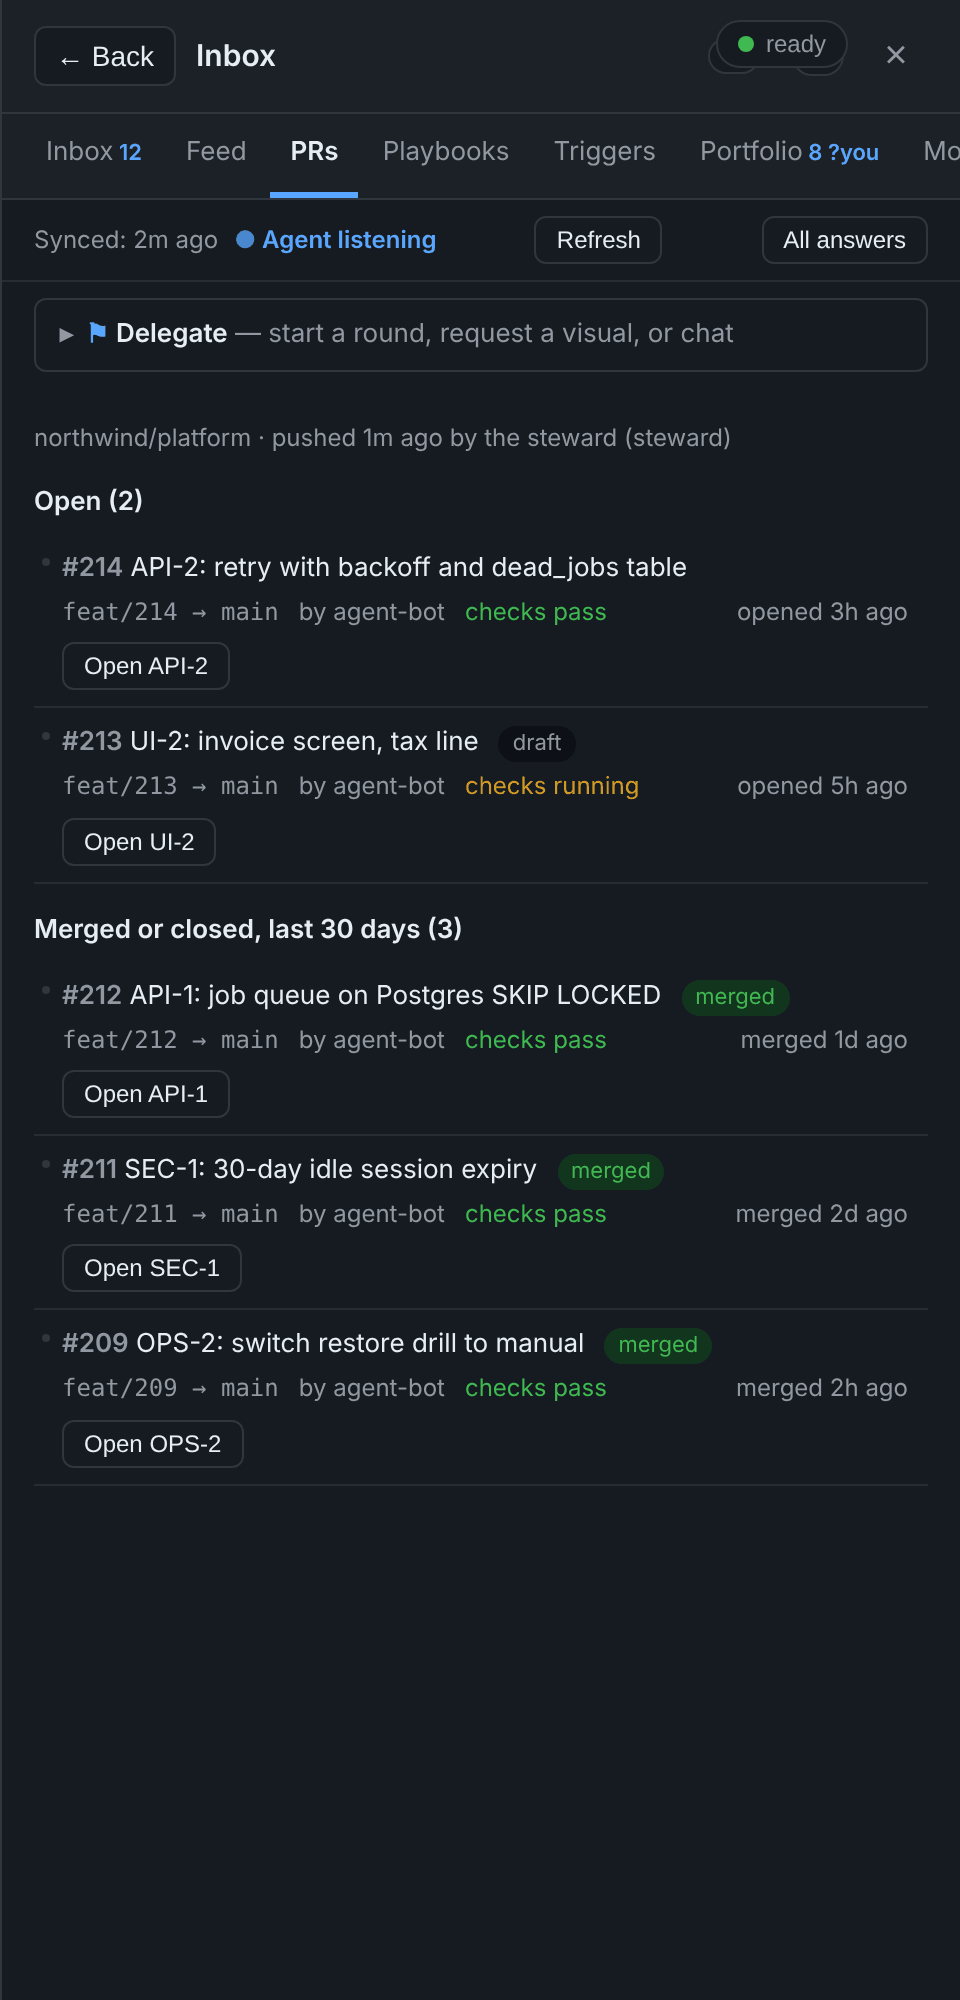
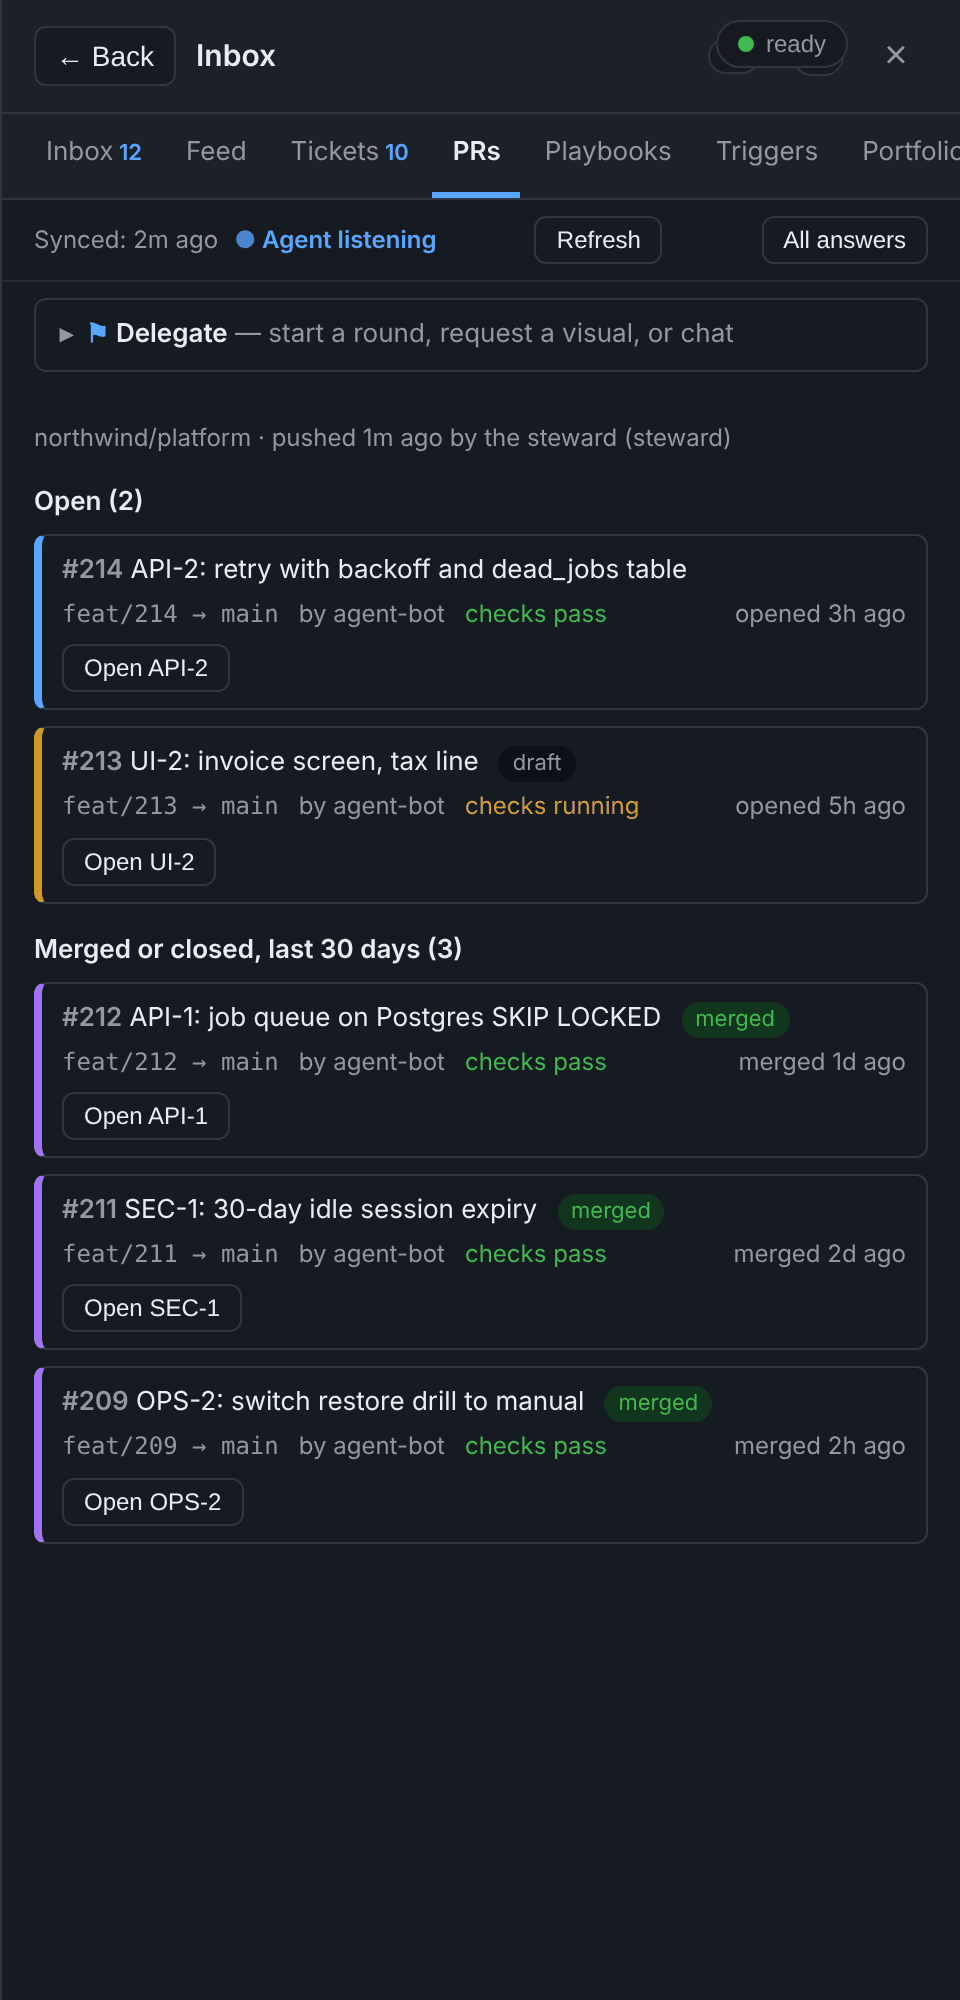
Console: PR cards, a footer shortcuts button, Chat ▾ on items; UX View proposal (#129)
- PRs tab: each pull request is a bordered card whose left edge shows
  its state (open, checks running or failing, draft, merged, closed).
- Footer: a ⌨ Shortcuts button opens the shortcut sheet.
- Items: a Chat ▾ split button. Chat jumps to the item's discussion; the
  menu routes to Branch out, Grill, Advise (deliberate) and Delegate
  (with the item preselected). Each action was exercised in a browser
  against the real server with no page errors.
- docs/proposals/UX-VIEW.md: the UX View design (component modal,
  generate via agents, save via the steward with a dated backup, lane
  placement), with the owner's open decisions.

Claude-Session: https://claude.ai/code/session_01ECWTMJdV8EtKvMwqCxis3n

diff --git a/plugin/kit/overture/console.js b/plugin/kit/overture/console.js
@@ -2203,6 +2203,36 @@
     setTimeout(() => document.addEventListener('click', onOutside, true), 0);
     moreMenuOpen = { menu, anchor, onOutside };
   }
+  // A small action menu (Chat ▾): same keyboard and outside-click behaviour as More ▾.
+  function openActionMenu(anchor, entries) {
+    closeMoreMenu();
+    const menu = el('div', { className: 'ck-more-menu ck-action-menu', role: 'menu' });
+    for (const [label, hint, fn] of entries) {
+      const item = el('button', { type: 'button', className: 'ck-more-item', role: 'menuitem', title: hint },
+        [label, el('span', { className: 'ck-muted ck-action-hint' }, [hint])]);
+      item.addEventListener('click', () => { closeMoreMenu(); fn(); });
+      menu.appendChild(item);
+    }
+    anchor.setAttribute('aria-expanded', 'true');
+    anchor.parentNode.appendChild(menu);
+    const rect = anchor.getBoundingClientRect();
+    const panelRect = panelEl.getBoundingClientRect();
+    menu.style.left = Math.max(8, rect.right - panelRect.left - 260) + 'px';
+    menu.style.top = (rect.bottom - panelRect.top + 4) + 'px';
+    const items = menu.querySelectorAll('.ck-more-item');
+    if (items.length) items[0].focus();
+    menu.addEventListener('keydown', e => {
+      if (e.key === 'Escape') { e.preventDefault(); closeMoreMenu(); anchor.focus(); }
+      else if (e.key === 'ArrowDown' || e.key === 'ArrowUp') {
+        e.preventDefault();
+        const idx = Array.prototype.indexOf.call(items, document.activeElement);
+        items[e.key === 'ArrowDown' ? (idx + 1) % items.length : (idx - 1 + items.length) % items.length].focus();
+      }
+    });
+    const onOutside = e => { if (!menu.contains(e.target) && e.target !== anchor) closeMoreMenu(); };
+    setTimeout(() => document.addEventListener('click', onOutside, true), 0);
+    moreMenuOpen = { menu, anchor, onOutside };
+  }
   function closeMoreMenu() {
     if (!moreMenuOpen) return;
     const { menu, anchor, onOutside } = moreMenuOpen;
@@ -3424,6 +3454,7 @@
   // without first opening an item. Reuses existing /api/message endpoints — no new server routes.
   // Posting is handled client-side; the collapsed <details> state persists across live wakes via a module var.
   let delegateOpen = false;
+  let delegateItem = null;   // Chat ▾ → Delegate preselects the item it came from, once
   function renderDelegateBar() {
     const wrap = el('details', { className: 'ck-delegate-bar' });
     if (delegateOpen) wrap.setAttribute('open', '');
@@ -3459,6 +3490,7 @@
       const data = items[id] || {};
       itemSel.appendChild(el('option', { value: id }, [id + (data.title ? ' — ' + truncateText(data.title, 60) : '')]));
     }
+    if (delegateItem && items && items[delegateItem]) { itemSel.value = delegateItem; delegateItem = null; }
     body.appendChild(el('div', { className: 'ck-field ck-del-itemrow' }, [
       el('label', { for: 'ck-del-item', className: 'ck-field-label' }, ['On item']),
       itemSel
@@ -5756,7 +5788,30 @@
     const branchBtn = el('button', { className: 'ck-btn ck-launch-btn', type: 'button',
       'aria-label': 'Branch out on a topic under ' + itemId }, ['⌁ Branch out']);
     branchBtn.addEventListener('click', () => openBranchOut(itemId));
-    wrap.appendChild(el('div', { className: 'ck-actions' }, [launchBtn, branchBtn, answersBtn, forkBtn, visBtn]));
+    // Chat ▾: a split button. The face jumps to this item's Discussion box; the arrow lists the
+    // ways to get an agent thinking about this item, each the existing feature, scoped here.
+    const chatSplit = el('span', { className: 'ck-split' });
+    const chatBtn = el('button', { className: 'ck-btn ck-split-main', type: 'button',
+      'aria-label': 'Chat about ' + itemId }, ['💬 Chat']);
+    chatBtn.addEventListener('click', () => {
+      const ta = panelEl.querySelector('.ck-thread .ck-textarea');
+      if (ta) { ta.scrollIntoView({ block: 'center', behavior: (reducedMotion && reducedMotion.matches) ? 'auto' : 'smooth' }); ta.focus(); }
+    });
+    const chatMore = el('button', { className: 'ck-btn ck-split-more', type: 'button', 'aria-haspopup': 'menu',
+      'aria-expanded': 'false', 'aria-label': 'More ways to engage an agent on ' + itemId }, ['▾']);
+    chatMore.addEventListener('click', () => openActionMenu(chatMore, [
+      ['⌁ Branch out', 'Turn a topic into a deliberated brief', () => openBranchOut(itemId)],
+      ['🔥 Grill', 'Five adversarial questions before you commit', () => {
+        openLaunchIdea(itemId); launchIdeaState.step = 2; renderLaunchIdea(); }],
+      ['⑂ Advise', 'Ask the seats for a recommendation (deliberate)', () => {
+        if (slot.hidden || !slot.childElementCount) forkBtn.click();
+        forkBtn.scrollIntoView({ block: 'center' }); }],
+      ['⚑ Delegate', 'Start a round, request a visual, run a playbook', () => {
+        delegateOpen = true; delegateItem = itemId; currentTab = 'inbox'; backToInbox(); }],
+    ]));
+    chatSplit.appendChild(chatBtn);
+    chatSplit.appendChild(chatMore);
+    wrap.appendChild(el('div', { className: 'ck-actions' }, [launchBtn, branchBtn, chatSplit, answersBtn, forkBtn, visBtn]));
     wrap.appendChild(slot);
     wrap.appendChild(visSlot);
     // Q36: while the send bar is up it is the one way to send; two controls for one signal would only differ.
@@ -7955,7 +8010,8 @@
   }
 
   function renderPRRow(pr) {
-    const row = el('li', { className: 'ck-feed-row ck-pr-row', dataState: pr.state, dataNumber: String(pr.number) });
+    const row = el('li', { className: 'ck-feed-row ck-pr-row', dataState: pr.state, dataNumber: String(pr.number),
+      dataDraft: pr.draft ? 'true' : 'false', dataChecks: pr.checks || 'none' });
     const href = prHref(pr.url);
     const titleKids = [el('span', { className: 'ck-pr-num' }, ['#' + pr.number]), ' ',
       el('span', { className: 'ck-pr-title' }, [String(pr.title)])];
@@ -8496,6 +8552,11 @@
     if (usage.account) parts.push(usage.account);
     if (version) parts.push('overture ' + version);
     footerEl.textContent = parts.join(' · ');
+    // The shortcut sheet is one press of `?` away, but nobody finds `?`: give it a button.
+    const keys = el('button', { type: 'button', className: 'ck-footer-keys',
+      title: 'Keyboard shortcuts (?)', 'aria-label': 'Show keyboard shortcuts' }, ['⌨ Shortcuts']);
+    keys.addEventListener('click', () => openShortcutHelp());
+    footerEl.appendChild(keys);
     footerEl.setAttribute('data-stale', stale ? 'true' : 'false');
     // The host page gets room for the footer at whatever height it wrapped to.
     root.style.setProperty('--ck-footer-h', footerEl.offsetHeight + 'px');

diff --git a/plugin/kit/overture/console.css b/plugin/kit/overture/console.css
@@ -3369,3 +3369,36 @@ a.ck-pr-link:hover .ck-pr-title, a.ck-pr-link:focus-visible .ck-pr-title { text-
 .ck-ticket-board .ck-ticket-id { font-size: 10.5px; }
 .ck-ticket-board .ck-ticket-body { display: none; }
 .ck-ticket-board .ck-btn { padding: 2px 8px; min-height: 0; font-size: 12px; }
+
+/* PR tab: each pull request is its own bordered card; the left edge says its state at a glance. */
+.ck-pr-row {
+  --pr-edge: var(--c-accent);
+  border: 1px solid var(--c-border); border-left: 4px solid var(--pr-edge);
+  border-radius: var(--radius-sm, 6px); padding: 8px 10px; margin: 0 0 8px;
+  background: var(--c-surface); list-style: none;
+}
+.ck-pr-row[data-state="open"][data-checks="failure"] { --pr-edge: var(--c-blocked); }
+.ck-pr-row[data-state="open"][data-checks="pending"] { --pr-edge: var(--c-claimed); }
+.ck-pr-row[data-draft="true"]                        { --pr-edge: var(--c-fg-muted); }
+.ck-pr-row[data-state="merged"]                      { --pr-edge: #8250df; }
+.ck-pr-row[data-state="closed"]                      { --pr-edge: var(--c-blocked); opacity: .8; }
+@media (prefers-color-scheme: dark) { :root:not([data-theme="light"]) .ck-pr-row[data-state="merged"] { --pr-edge: #a371f7; } }
+:root[data-theme="dark"] .ck-pr-row[data-state="merged"] { --pr-edge: #a371f7; }
+.ck-prs-list { padding-left: 0; }
+
+/* Footer: the shortcut sheet's button, on the right. */
+.ck-footer-keys {
+  float: right; margin-left: 12px; font: inherit; font-size: 12px; cursor: pointer;
+  color: var(--c-fg-muted); background: transparent; border: 1px solid var(--c-border);
+  border-radius: var(--radius-sm, 6px); padding: 0 8px;
+}
+.ck-footer-keys:hover, .ck-footer-keys:focus-visible { color: var(--c-fg); border-color: var(--c-accent); outline: none; }
+
+/* Chat ▾ split button and its action menu. */
+.ck-split { display: inline-flex; }
+.ck-split .ck-split-main { border-top-right-radius: 0; border-bottom-right-radius: 0; }
+.ck-split .ck-split-more { border-top-left-radius: 0; border-bottom-left-radius: 0; border-left: 0; padding-left: 8px; padding-right: 8px; }
+.ck-action-menu { min-width: 260px; }
+.ck-action-menu .ck-more-item { display: flex; flex-direction: column; align-items: flex-start; gap: 1px; text-align: left; }
+.ck-action-hint { font-size: 11.5px; }
+.ck-pr-row::before { display: none; }   /* the feed's row dot; the coloured edge replaces it */

diff --git a/docs/demo/screenshots.py b/docs/demo/screenshots.py
@@ -521,6 +521,19 @@ def capture(demo: Demo) -> list[str]:
             pg.locator(".ck-ticket-chart").first.screenshot(path=str(OUT / "feature-ticket-graph.png"))
         shot("feature-ticket-graph", ticket_graph)
 
+        def chat_menu(pg):
+            item(pg, "API-2")
+            pg.locator(".ck-panel .ck-split-more").first.click()
+            pg.wait_for_timeout(500)
+            panel(pg, "feature-chat-menu")
+        shot("feature-chat-menu", chat_menu)
+
+        def footer_keys(pg):
+            pg.locator(".ck-footer-keys").click()
+            pg.wait_for_timeout(600)
+            pg.screenshot(path=str(OUT / "feature-footer-keys.png"))
+        shot("feature-footer-keys", footer_keys)
+
         def ribbon(pg):
             pg.locator(".ck-priority-ribbon").first.screenshot(path=str(OUT / "feature-priority.png"))
         shot("feature-priority", ribbon)

diff --git a/docs/proposals/UX-VIEW.md b/docs/proposals/UX-VIEW.md
@@ -1,0 +1,164 @@
+# Proposal: UX View
+
+**The ask.** Some items are UI/UX work: a component or page being built or
+deliberated on, with or without Claude design. Each of those gets a **UX View**
+button next to it. The button opens a modal that shows the component with all
+its styles. The modal's footer has three actions:
+
+- **Save:** store the component as a component `.md` tied to the item, and
+  update its style. A previous style, if any, is kept as a backup.
+- **Generate component:** an agent makes the component.
+- **Generate with input:** a chat opens to steer the component's design and
+  behaviour.
+
+When a UX item is created, it is added to the right wave, phase and lane on
+the dashboard automatically.
+
+Status: proposal, for the owner to decide.
+
+---
+
+## Two rules this design keeps
+
+1. **The server never writes into the project.** It never writes a file in
+   your checkout. Everything reaches the repository the way rulings and
+   visuals already do:
+   - the steward writes the change in its own worktree;
+   - it opens a pull request;
+   - you merge it.
+2. **The server generates nothing.** "Generate" becomes an owner message that
+   rings the doorbell. An agent does the work and posts the result back as a
+   **visual**. That is the existing `/visual` route, stored in STATE and shown
+   in a sandboxed frame with scripts off for HTML.
+
+Both rules are why a ruling, a visual or a dashboard change can never come
+from a repository or a web page alone.
+
+## What already exists
+
+| Piece | Today |
+|---|---|
+| Showing a component safely | An HTML **visual** (`format: html`) renders in `<iframe sandbox="">` under a strict CSP, with a parser-based sanitizer behind it (1.31). Mermaid renders in its own frame. |
+| Asking an agent to draw | **Request a visual…** on an item: an owner `message` with `intent: "visual"`, answered by `agent.py visual` |
+| Moving a visual into the repo | `agent.py visual-export --project <worktree>` copies it into `visuals_dir` and rewrites `INDEX.md`; the agent opens a PR |
+| Talking about one item | The item's thread: an owner `message`, answered by `agent.py reply` |
+| Waves, phases and lanes | An item's `section`, e.g. `wave-2/phase-2.2/lane-ui`; `items-push --sync-dashboard` inserts the item into the dashboard tree |
+| Versions | Variant chips, "v3 of 7" with Prev and Next across an item's visuals (1.29) |
+
+UX View is mostly these pieces joined behind one button, plus two new owner
+intents.
+
+## The design
+
+### Which items get the button
+
+An item shows **UX View** when any of these holds:
+
+- its `section` has a `lane-ui` or `lane-ux` segment, or any segment the
+  project lists under `.overture.json` → `"ux": {"lanes": [...]}`;
+- the item or one of its questions is tagged `ux`:
+  - an item `kind: "ux"`, a new value beside `topic` and `item`; or
+  - a question with `star_by: "ux"`;
+- it already has an HTML visual.
+
+### The modal
+
+- **Body:** the item's newest HTML visual in the same sandboxed frame, at
+  full width. A size toggle switches between mobile, tablet and desktop
+  widths. The light/dark switch is skipped: the frame runs no scripts, so it
+  can't react to one. The variant chips step through older versions.
+- **Side note:** the current saved component, if any: its path in the
+  repository and the commit it came from.
+- **Footer:**
+  - **Save:** marks this visual as *the* component for the item. See
+    "Saving" below.
+  - **Generate component:** sends an owner message with
+    `intent: "ux-generate"` and no extra text.
+  - **Generate with input:** opens a chat pane inside the modal, which is the
+    item's thread. What you type goes out as `intent: "ux-generate"` with your
+    words. The agent answers in the thread and posts a new visual, which
+    appears in the modal as the next version.
+
+### Generating, the agent's side
+
+A new skill, `console-ux`, handles `ux-generate`. It runs the same way the
+existing skills handle visual requests:
+
+1. It reads the item, its rulings, the current component file, and the
+   project's design tokens (`:root` CSS custom properties, or a configured
+   `ux.tokens` file).
+2. It writes the component as **one self-contained HTML document**, with
+   styles inline and no scripts, so it renders in the sandbox exactly as it
+   will look.
+3. It posts the document with `agent.py visual --format html`.
+4. If Claude design is available in the session, the skill may use it to
+   draft. What it posts is still a plain HTML visual.
+
+### Saving
+
+**Save** writes no files itself. It records the owner's choice and lets the
+steward carry it into the repository:
+
+1. It sends an owner message with `intent: "ux-save"` and the visual's id.
+   The choice is in the audit trail like any other owner act.
+2. The steward runs `agent.py ux-export --project <worktree>`, an extension of
+   `visual-export`. That command:
+   - writes `components/<item>.md`: front matter (item, visual id, source
+     commit, saved-by, date), a short description, and the component HTML in
+     a fenced block;
+   - writes `components/<item>.css` when the component carries a style block;
+   - moves a component or CSS file that already exists to
+     `components/.history/<item>-<timestamp>.md` (and `.css`) first. **This
+     is the backup of the old style.**
+   - opens a pull request.
+3. The modal shows "Saved, waiting for PR #…", then "Saved in `<path>`" once
+   the steward's next `prs-push` shows the PR merged.
+
+The `components/` location can be changed with `.overture.json` →
+`"ux": {"dir": "..."}`.
+
+### Placing a new UX item on the dashboard
+
+When a UX item is created (from Launch Idea, Branch Out, or the adapter), the
+steward:
+
+1. **Picks the section.** It uses the parent's wave and phase plus
+   `lane-ui`. If the parent has no section, it uses the newest open wave and
+   phase on the board.
+2. **Sends it through the adapter.** The item list belongs to the project's
+   adapter, so the steward writes the section there, or proposes it as a
+   question when the adapter can't.
+3. **Updates the board.** It runs
+   `items-push --sync-dashboard docs/console/page.html`. That inserts the
+   item's `<details>` under the right wave, phase and lane, and you publish
+   the page with **Use this page** as usual.
+
+"Automatically" means without you doing anything, but still by the steward,
+reviewed and published by you. The server never edits the dashboard.
+
+## What it takes
+
+| Part | Size |
+|---|---|
+| The **UX View** button and modal: frame, size toggle, versions, footer | console.js and css, medium |
+| `ux-generate` and `ux-save` intents, plus the `kind: "ux"` item kind | schema, small; tests |
+| The modal's chat pane, reusing the item thread | console.js, small |
+| The `console-ux` skill: generation | skill, medium |
+| `agent.py ux-export`: component md and css with a dated backup, then a PR | agent.py, medium; tests |
+| Lane placement in the steward's Launch Idea and Branch Out handling | skill and adapter guidance, small |
+| README screenshots and GIF | demo script |
+
+This is about two PRs: first the modal, intents and export, then generation
+and lane placement.
+
+## Decisions for the owner
+
+1. **Format:** a component is one self-contained HTML document, with inline
+   styles and no scripts. Is that right, or do you want framework code
+   (React or similar) saved alongside it, with the HTML as its preview?
+2. **Where:** `components/<item>.md` plus `.css`, backups under
+   `components/.history/`. Or somewhere else?
+3. **Which items:** lane `lane-ui`/`lane-ux` plus `ux` tags, as above. Should
+   the lanes be configurable per project?
+4. **Saving:** through the steward and a PR (recommended, keeps the trust
+   model). Or is a faster path that skips the PR worth discussing?

diff --git a/README.md b/README.md
@@ -365,9 +365,13 @@ anything from the repository. See the module docstrings for the trust model.
   <img src="docs/screenshots/feature-favorite.png" alt="The Favorite tab listing two starred items" width="400">
 
 - **Chat**, for a message not tied to a question. It wakes the watching
-  session.
+  session. On an item, **💬 Chat ▾** jumps to that item's discussion. Its
+  menu offers **Branch out**, **Grill**, **Advise** (deliberate) and
+  **Delegate**, each already scoped to the item.
 
   <img src="docs/screenshots/feature-chat.png" alt="The Chat tab: the owner asks if main is green, the steward answers" width="400">
+
+  <img src="docs/screenshots/feature-chat-menu.png" alt="The Chat ▾ menu on an item: Branch out, Grill, Advise, Delegate" width="400">
 
 ### Keep rulings honest as the code moves
 
@@ -447,7 +451,9 @@ server cannot check it.
   agent-6`). One of them, the **steward**, named in your own registry, is the
   only one that processes your requests and folds your answers. The others
   post their questions to your inbox instead of asking you directly.
-- The **PRs** tab lists the project's open pull requests, then those
+- The **PRs** tab shows each pull request as its own card. The left edge
+  shows its state: blue open, amber checks running, red checks failing,
+  gray draft, purple merged. It lists the project's open pull requests, then those
   merged or closed in the last 30 days (`--days` changes it), with checks, draft and merged
   badges, a link to each on GitHub, and an **Open** button for any item or
   question a title or branch names. The steward pushes the list
@@ -471,9 +477,10 @@ server cannot check it.
 
   <img src="docs/screenshots/anim-palette.gif" alt="Pressing Ctrl+K, typing retry, and jumping straight to the matching item" width="720">
 
-- **Keyboard shortcuts.** Press `?` on any page for the full list.
-  `g i / f / p / s / o / c` hop to the Inbox / Feed / PRs / Favorite /
-  Portfolio / Chat tab, `g b` closes the panel, `.` focuses the
+- **Keyboard shortcuts.** Press `?`, or the **⌨ Shortcuts** button in the
+  footer, for the full list.
+  `g i / f / k / p / s / o / c` hop to the Inbox / Feed / Tickets / PRs /
+  Favorite / Portfolio / Chat tab, `g b` closes the panel, `.` focuses the
   Delegate bar, `j / k` walk the rows, Enter / Space opens the focused
   row. Shortcuts never fire in a text input.
 

diff --git a/CHANGELOG.md b/CHANGELOG.md
@@ -3095,3 +3095,16 @@ example dashboard.
   unit tests and 5 route tests cover create, update and close,
   blocking, cycles, field checks, the view, the chart and the owner
   gate.
+- **PR cards.** Each pull request on the PRs tab is a bordered card whose
+  left edge shows its state: open, checks running, checks failing,
+  draft, merged or closed.
+- **Shortcuts button.** The footer has a **⌨ Shortcuts** button that
+  opens the shortcut sheet, so `?` is no longer the only way in.
+- **Chat ▾ on items.** A split button on every item: **Chat** jumps to
+  the item's discussion. Its menu routes to **Branch out**, **Grill**
+  (Launch Idea's grill step), **Advise** (the deliberation form) and
+  **Delegate** (the Delegate bar, with the item preselected).
+- **docs/proposals/UX-VIEW.md.** A proposal for UX View: a component
+  modal with Save, Generate and Generate with input; components saved
+  to `components/<item>.md` with a dated backup, through the steward;
+  new UX items placed into their lane automatically.
